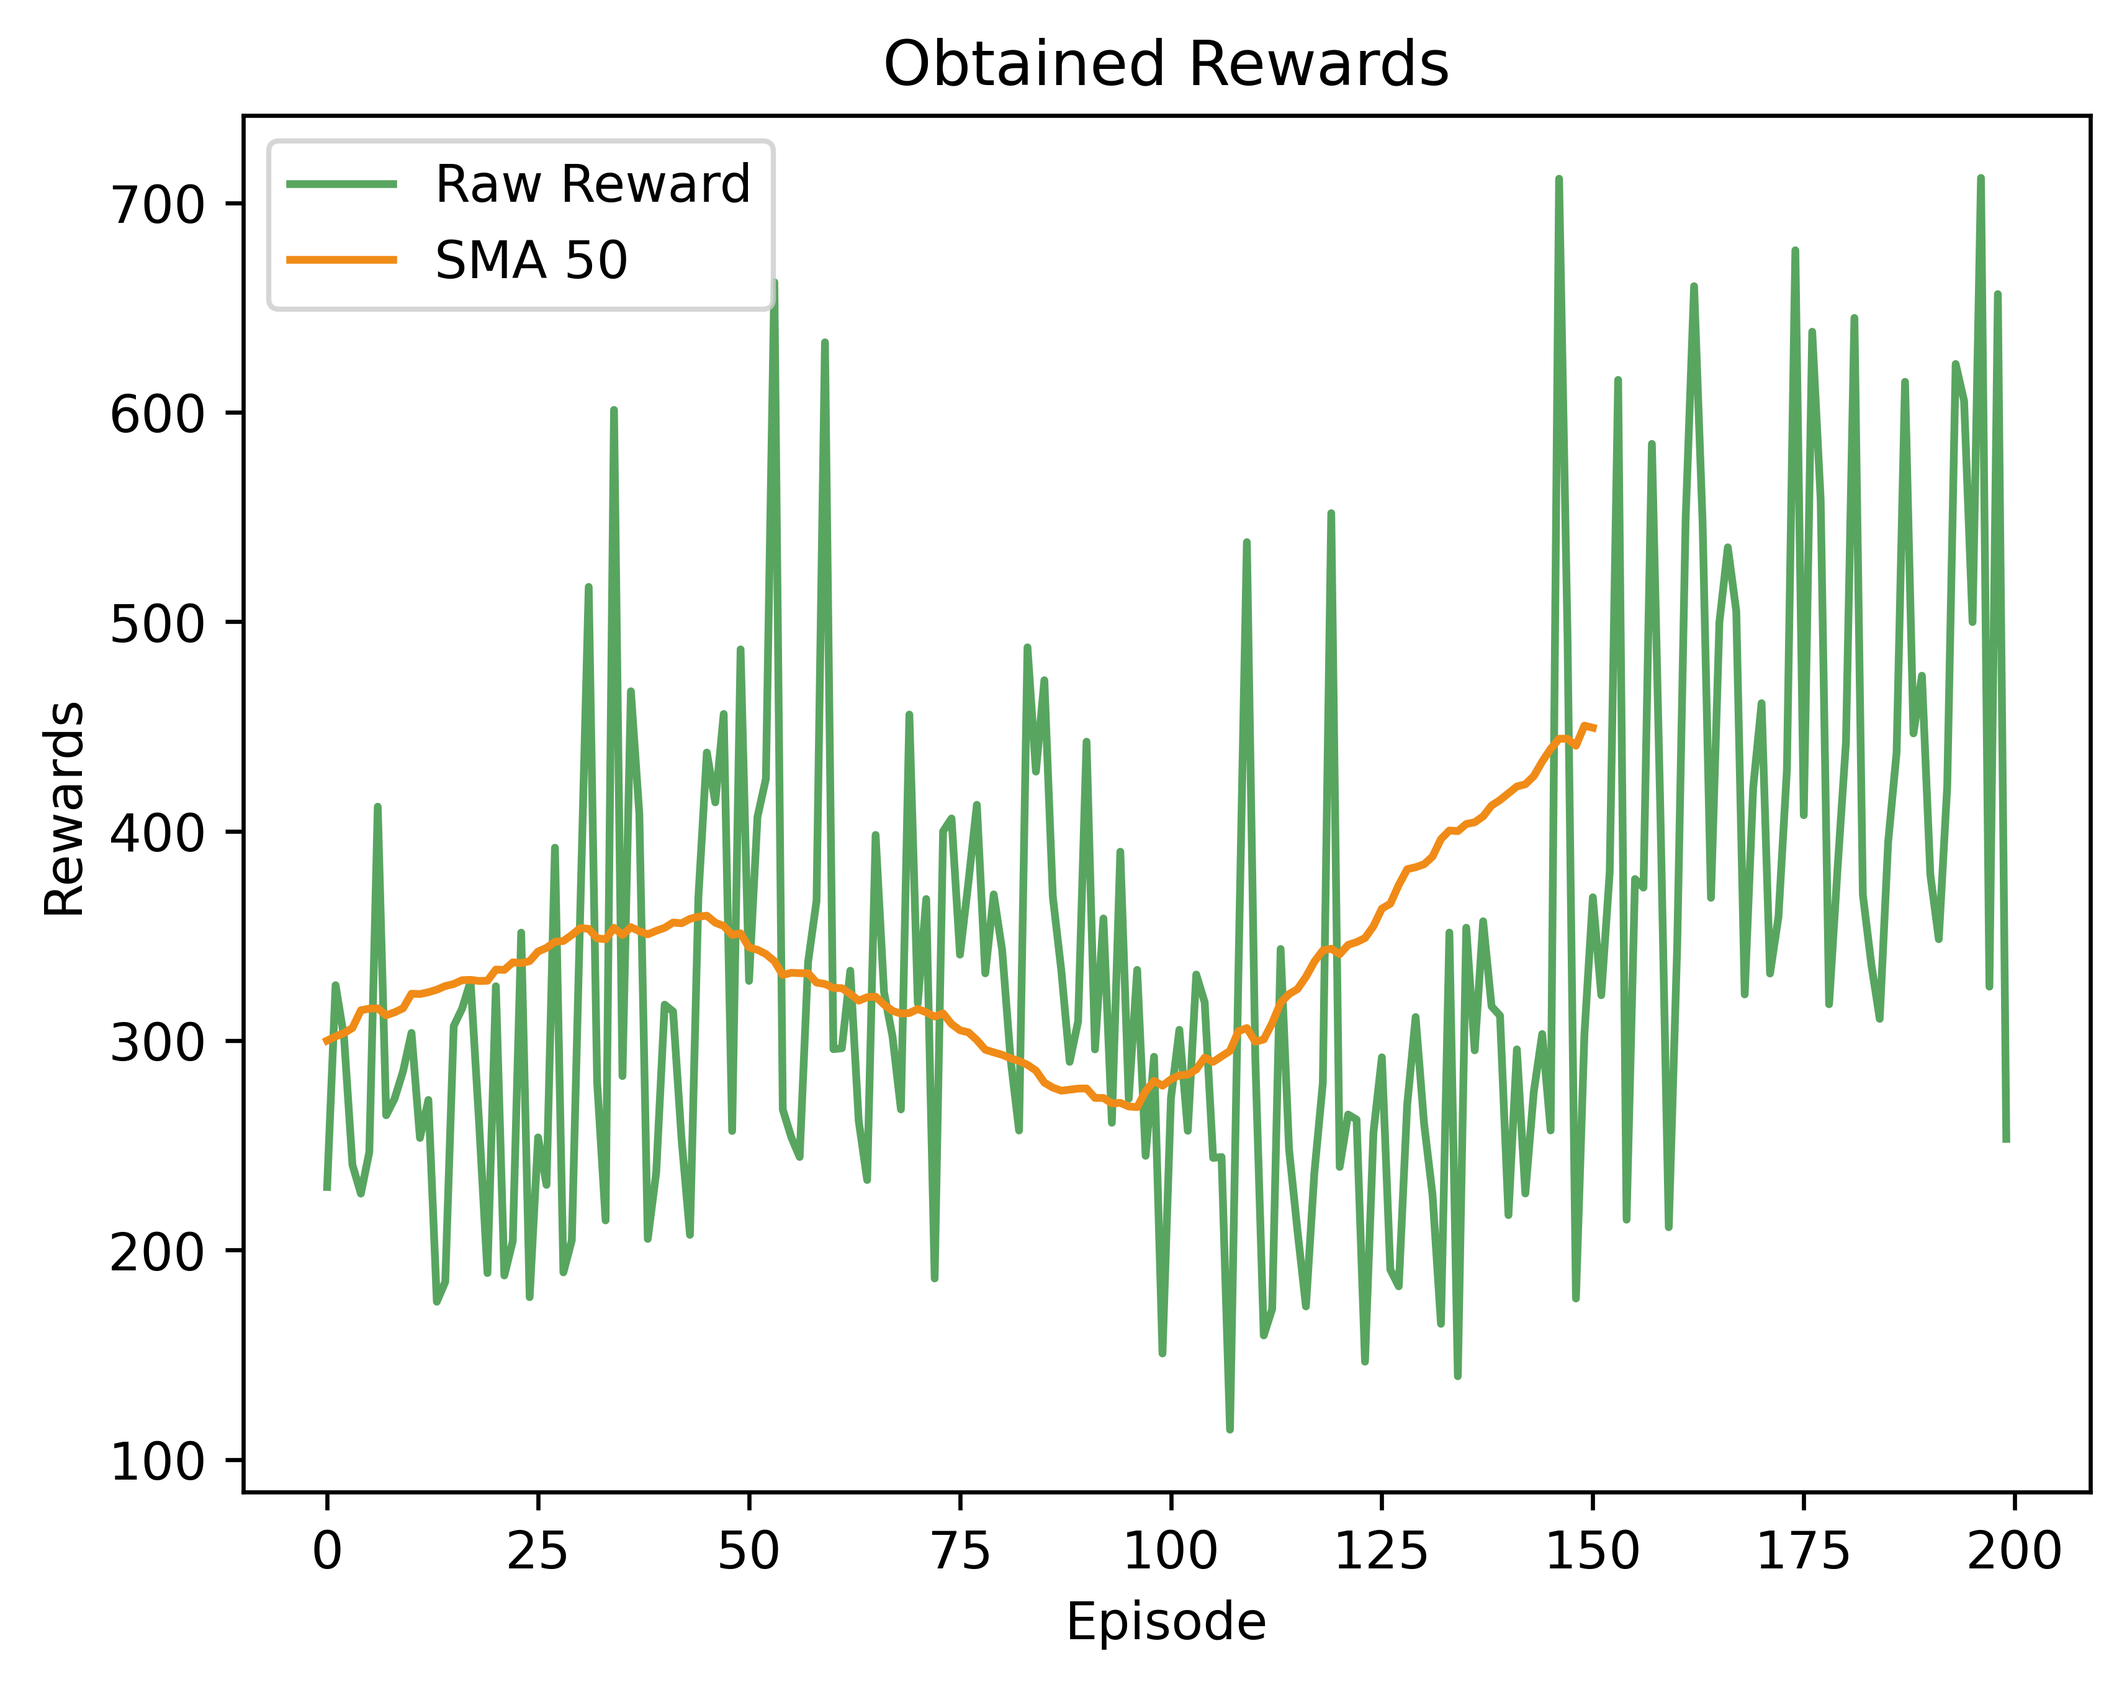
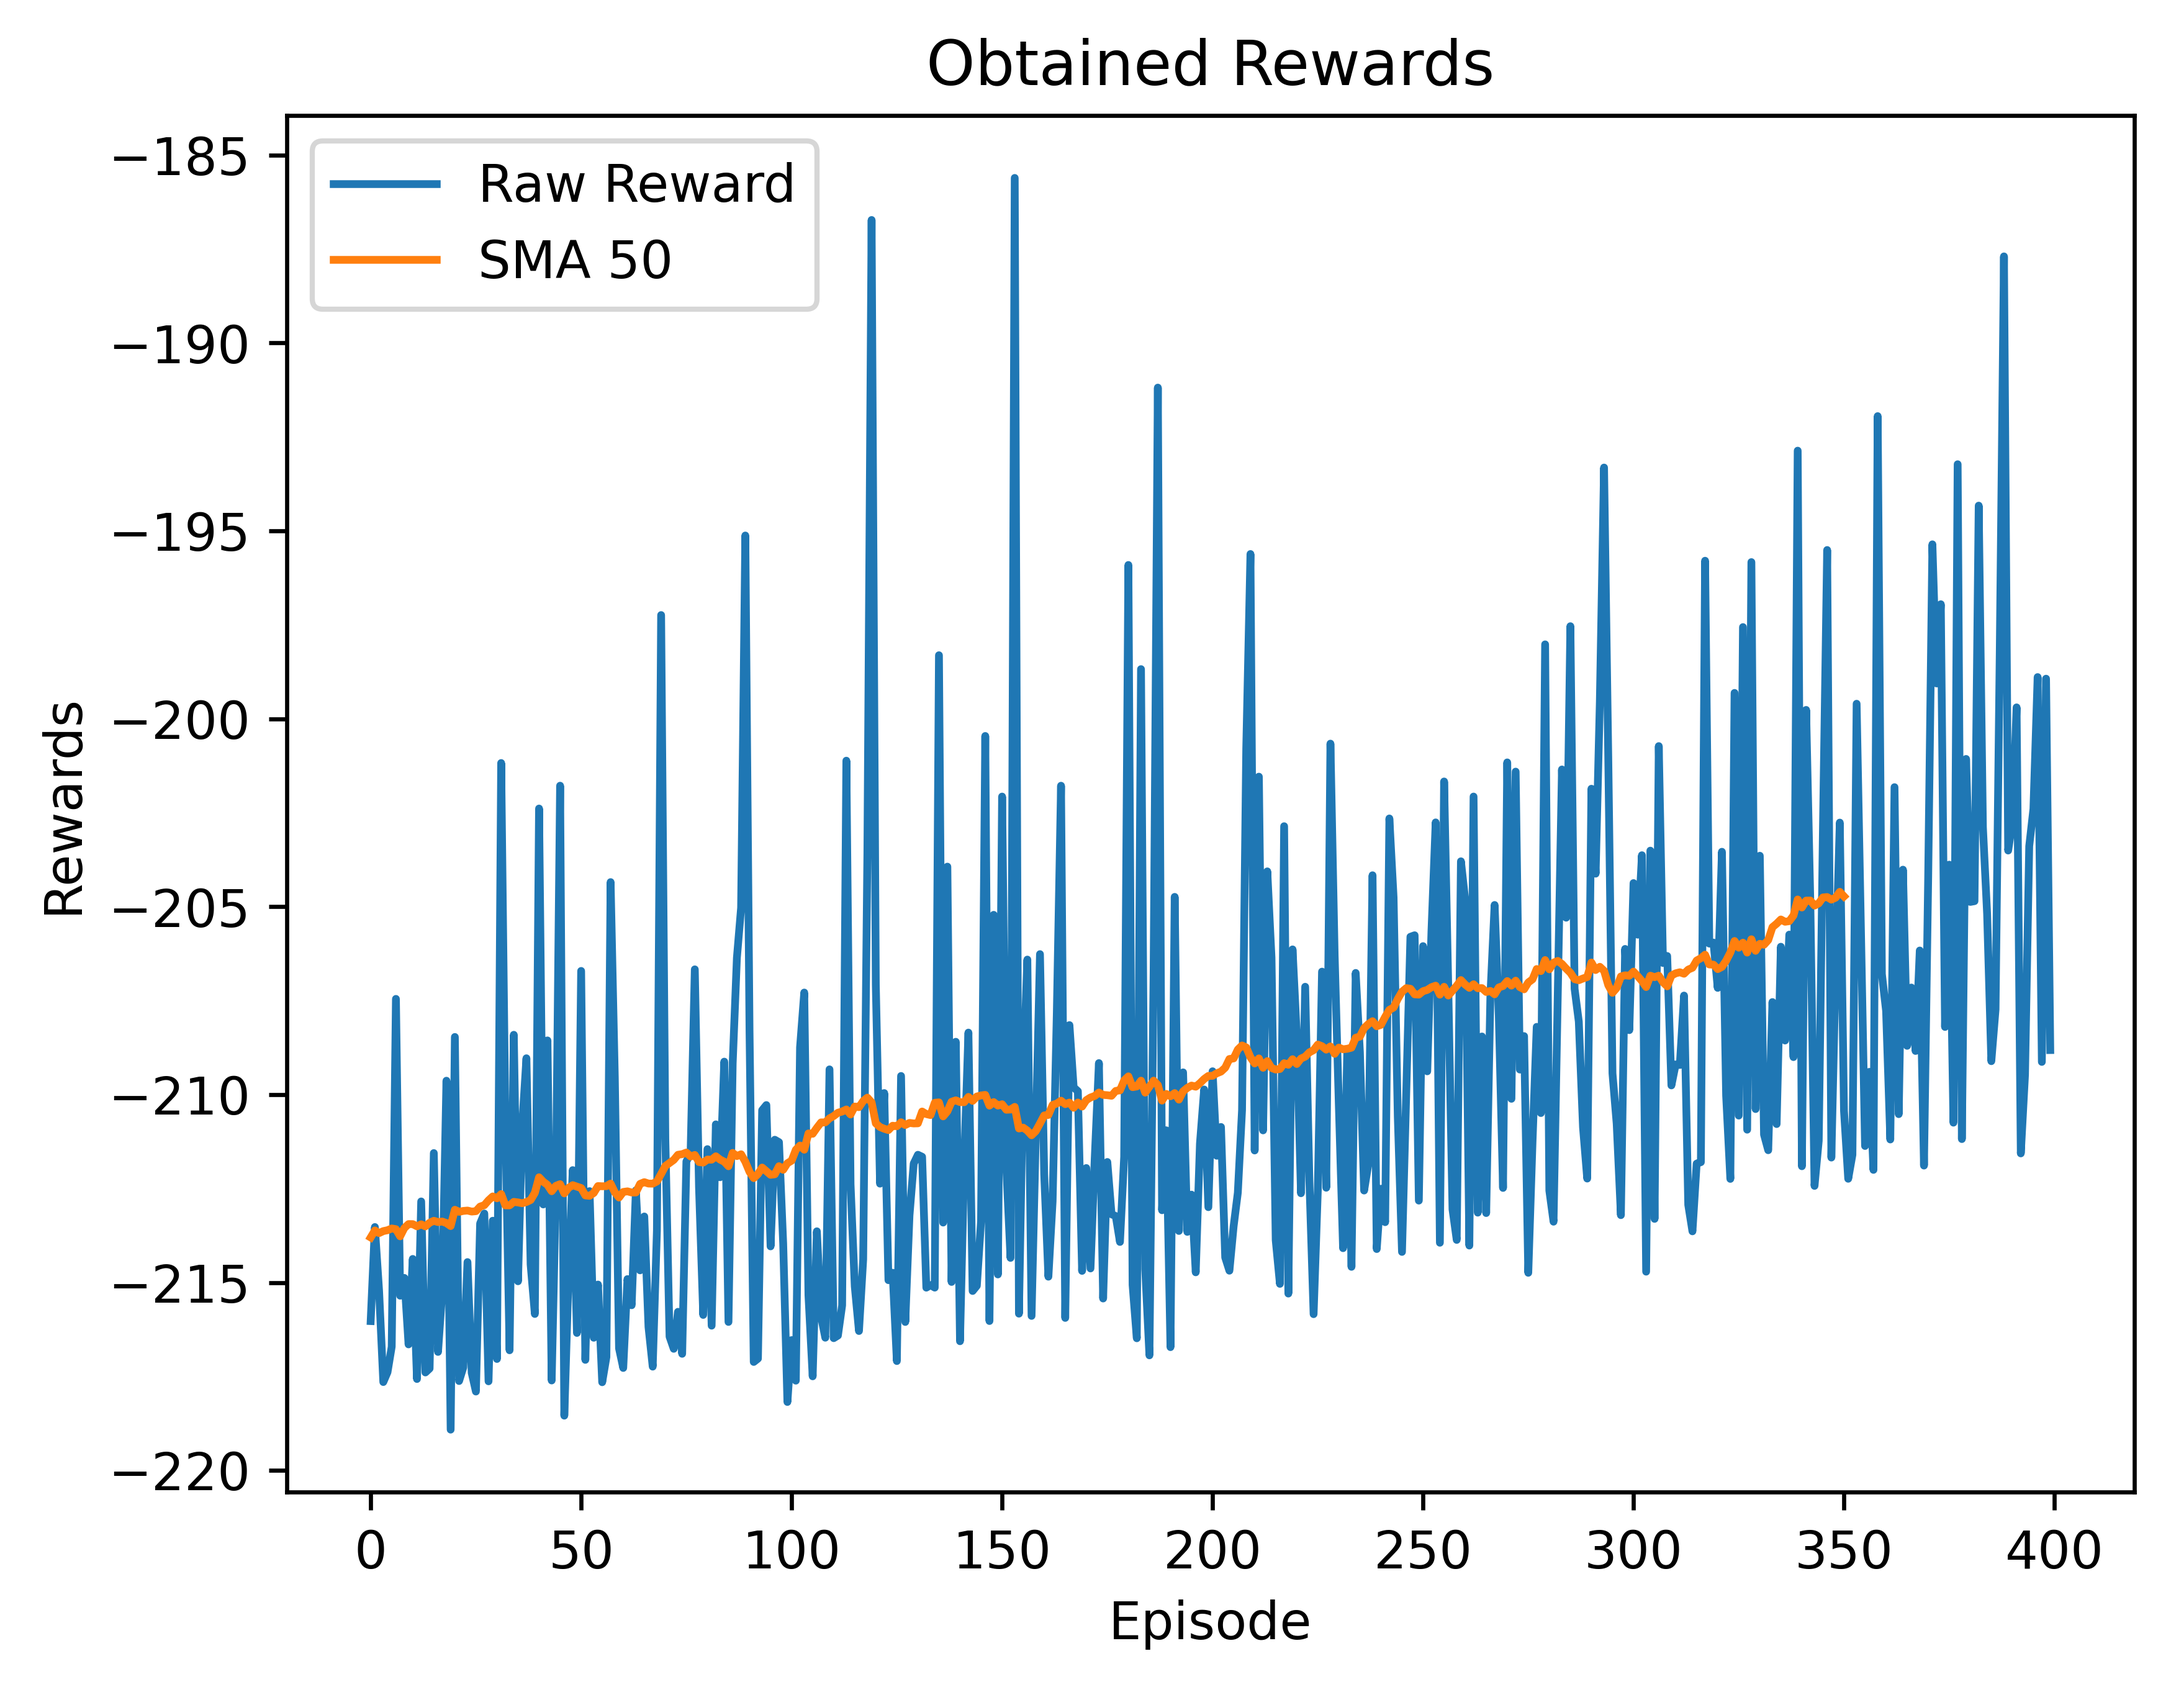
GAH

diff --git a/DQN_MountainCar_PyTorch/main.py b/DQN_MountainCar_PyTorch/main.py
@@ -2,10 +2,10 @@ import random, collections
 import matplotlib.pyplot as plt
 import torch, torch.nn as nn, torch.optim as optim
 import gymnasium as gym
-
 import numpy as np
+import torch.nn.functional as F
 
-# To stop Numpy having a stroke
+# Compatibility
 if not hasattr(np, "bool8"):
     np.bool8 = np.bool_
 
@@ -13,23 +13,23 @@ if not hasattr(np, "bool8"):
 TRAIN = True
 RENDER = not TRAIN
 
-NUM_EPISODES = 200
+NUM_EPISODES = 800
 MAX_STEPS = 200
 BATCH_SIZE = 64
 DISCOUNT = 0.99
-LEARNING_RATE = 75e-4
-BUFFER_SIZE = 50000
+LEARNING_RATE = 1e-4
+BUFFER_SIZE = 40000
 MIN_REPLAY_SIZE = 1000
 EPS_START = 0.999
 EPS_END = 0.01
-EPS_DECAY = 0.997
+EPS_DECAY = 0.998
 TAU = 0.005
 
 # ~~~~ Environment ~~~~
 DEVICE = torch.device("cuda" if torch.cuda.is_available() else "cpu")
 env = gym.make("MountainCar-v0", render_mode="human" if RENDER else None)
 
-# Seed everything
+# Seed
 SEED = 21
 random.seed(SEED)
 torch.manual_seed(SEED)
@@ -37,7 +37,6 @@ env.reset(seed=SEED)
 env.action_space.seed(SEED)
 if torch.cuda.is_available():
     torch.cuda.manual_seed(SEED)
-
 
 
 # ~~~~ Replay buffer ~~~~
@@ -51,17 +50,18 @@ class ReplayBuffer:
     def sample(self, batch_size):
         indices = np.random.choice(len(self.buffer), batch_size, replace=False)
         batch = [self.buffer[i] for i in indices]
-        s, a, r, s_, d = zip(*batch)
+        state, action , reward, next_state, done = zip(*batch)
         return (
-            torch.tensor(np.stack(s), dtype=torch.float32, device=DEVICE),
-            torch.tensor(a, dtype=torch.long, device=DEVICE),
-            torch.tensor(r, dtype=torch.float32, device=DEVICE),
-            torch.tensor(np.stack(s_), dtype=torch.float32, device=DEVICE),
-            torch.tensor(d, dtype=torch.float32, device=DEVICE),
+            torch.tensor(np.stack(state), dtype=torch.float32, device=DEVICE),
+            torch.tensor(action, dtype=torch.long, device=DEVICE),
+            torch.tensor(reward, dtype=torch.float32, device=DEVICE),
+            torch.tensor(np.stack(next_state), dtype=torch.float32, device=DEVICE),
+            torch.tensor(done, dtype=torch.float32, device=DEVICE),
         )
 
     def __len__(self):
         return len(self.buffer)
+
 
 # ~~~~ Normalise Function ~~~~
 def normalize_state(state):
@@ -69,15 +69,15 @@ def normalize_state(state):
     high = env.observation_space.high
     return (state - low) / (high - low)
 
-# ~~~~ Custom Rewards ~~~~
-def custom_reward(state, next_state, env_reward):
-    position, velocity = next_state
 
-    # Base shaping
+# ~~~~ Custom reward ~~~~
+def custom_reward(next_state, env_reward=0.0):
+    # next_state is a numpy array [position, velocity]
+    position, velocity = next_state
+    # base shaping (same idea as yours)
     modified_reward = 0.2 * (np.cos(np.deg2rad(position * 360)) + 2.0 * abs(velocity))
     modified_reward -= 0.9
-    
-    # Progress bonuses
+
     if position > 0.48:
         modified_reward += 10.0
     elif position > 0.40:
@@ -85,34 +85,52 @@ def custom_reward(state, next_state, env_reward):
     elif position > 0.30:
         modified_reward += 1.0
 
+    # clip to avoid huge spikes (you can tune this)
     return float(np.clip(modified_reward, -50.0, 50.0))
 
-def customStep(action):
-    raw_next_state, env_reward, done, trunc, info = env.step(action)
-    return normalize_state(raw_next_state), custom_reward(raw_next_state), done, trunc, info
 
-def customReset(seed=None):
+# ~~~~ Custom Step and reset ~~~~
+def custom_step(action):
+    raw_next_state, env_reward, terminated, truncated, info = env.step(action)
+    mod_reward = custom_reward(raw_next_state, env_reward)
+    norm_next_state = normalize_state(raw_next_state)
+    return norm_next_state, mod_reward, terminated, truncated, info
+
+
+def custom_reset(seed=None):
     if seed is not None:
         raw_state, info = env.reset(seed=seed)
     else:
         raw_state, info = env.reset()
     return normalize_state(raw_state), info
 
-    
+
 # ~~~~ Q-network ~~~~
 class QNet(nn.Module):
-    def __init__(self, obs_dim, n_actions):
+    # def __init__(self, obs_dim, n_actions):
+    #     super().__init__()
+    #     self.net = nn.Sequential(
+    #         nn.Linear(obs_dim, 24),
+    #         nn.ReLU(),
+    #         nn.Linear(24, 16),
+    #         nn.ReLU(),
+    #         nn.Linear(16, n_actions),
+    #     )
+
+    # def forward(self, x):
+    #     return self.net(x)
+    
+    
+    def __init__(self, state_dim, action_dim):
         super().__init__()
-        self.net = nn.Sequential(
-            nn.Linear(obs_dim, 24),
-            nn.ReLU(),
-            nn.Linear(24, 16),
-            nn.ReLU(),
-            nn.Linear(16, n_actions),
-        )
+        self.fc1 = nn.Linear(state_dim, 25)
+        self.fc2 = nn.Linear(25, 20)
+        self.fc3 = nn.Linear(20, action_dim)
 
     def forward(self, x):
-        return self.net(x)
+        x = F.relu(self.fc1(x))
+        x = F.relu(self.fc2(x))
+        return self.fc3(x)
 
 
 # ~~~~ Agent ~~~~
@@ -130,7 +148,6 @@ class DQNAgent:
         self.n_actions = n_actions
         self.steps = 0
 
-    # Soft updating instead of hard updating for smoother transitions
     def soft_update(self):
         for t, s in zip(self.target.parameters(), self.online.parameters()):
             t.data.copy_(TAU * s.data + (1 - TAU) * t.data)
@@ -144,15 +161,18 @@ class DQNAgent:
 
     def learn(self, batch_size):
         states, actions, rewards, next_states, dones = self.replay.sample(batch_size)
-        q_values = self.online(states).gather(1, actions.unsqueeze(1))
+        actions_idx = actions.unsqueeze(1)          
+        rewards = rewards.unsqueeze(1)              
+        dones = dones.unsqueeze(1)                  
 
-        # Double DQN
+        q_values = self.online(states).gather(1, actions_idx) 
+
+        # Double DQN target
         with torch.no_grad():
-            next_actions = self.online(next_states).argmax(dim=1, keepdim=True)
-            next_q = self.target(next_states).gather(1, next_actions)
-            target_q = rewards + (1.0 - dones) * DISCOUNT * next_q
+            next_actions = self.online(next_states).argmax(dim=1, keepdim=True) 
+            next_q = self.target(next_states).gather(1, next_actions)           
+            target_q = rewards + (1.0 - dones) * DISCOUNT * next_q              
 
-        # Huber loss
         loss = nn.SmoothL1Loss()(q_values, target_q)
 
         self.optimizer.zero_grad()
@@ -163,28 +183,25 @@ class DQNAgent:
         self.steps += 1
         self.soft_update()
         return loss.item()
-    
+
+
 agent = DQNAgent(env)
 
+
 # ~~ Pre-fill replay buffer ~~
-state, _ = customReset(seed=SEED)
-state = normalize_state(state)
+state, _ = custom_reset(seed=SEED)
 for _ in range(MIN_REPLAY_SIZE):
     action = env.action_space.sample()
-    next_state, env_reward, terminated, truncated, _ = customStep(action)
-    next_state = normalize_state(next_state)
+    next_state, reward, terminated, truncated, _ = custom_step(action)
     done = terminated or truncated
-    reward = custom_reward(state, next_state, env_reward)
     agent.replay.push(state, action, reward, next_state, done)
-    state = next_state if not done else normalize_state(customReset()[0])
-
-# Scout out the env
-print("Pre-filled replay:", len(agent.replay))
-
+    if done:
+        state, _ = custom_reset()   # start new episode in prefill
+    else:
+        state = next_state
 
 # ~~~~ Plots ~~~~
 def plot_training(rewards, losses, window=50, max_reward=1000):
-    # Rewards plot
     rewards = np.array(rewards)
     rewards_history = np.clip(rewards, None, max_reward)
 
@@ -196,19 +213,18 @@ def plot_training(rewards, losses, window=50, max_reward=1000):
 
     plt.figure()
     plt.title("Obtained Rewards")
-    plt.plot(rewards_history, label="Raw Reward", color="#58A560")
+    plt.plot(rewards_history, label="Raw Reward")
     if sma is not None:
-        plt.plot(sma, label=f"SMA {window}", color="#F08B17")
+        plt.plot(sma, label=f"SMA {window}")
     plt.xlabel("Episode")
     plt.ylabel("Rewards")
     plt.legend()
     plt.savefig("./reward_plot.png", dpi=600, bbox_inches="tight")
     plt.show()
 
-    # Loss plot
     plt.figure()
     plt.title("Network Loss")
-    plt.plot(losses, label="Loss", color="#9132BD")
+    plt.plot(losses, label="Loss")
     plt.xlabel("Training Step")
     plt.ylabel("Loss")
     plt.legend()
@@ -223,19 +239,15 @@ def train():
     loss_history = []
 
     for episode in range(1, NUM_EPISODES + 1):
-        state, _ = customReset()
-        state = normalize_state(state)
+        state, _ = custom_reset()
         ep_reward = 0.0
         ep_losses = []
         ep_steps = 0
 
         for step in range(MAX_STEPS):
             action = agent.act(state, epsilon)
-            next_state, env_reward, terminated, truncated, _ = customStep(action)
-            next_state = normalize_state(next_state)
-
+            next_state, reward, terminated, truncated, _ = custom_step(action)
             done = terminated or truncated
-            reward = custom_reward(state, next_state, env_reward)
 
             agent.replay.push(state, action, reward, next_state, done)
             state = next_state
@@ -253,15 +265,17 @@ def train():
         rewards_history.append(ep_reward)
         epsilon = max(EPS_END, epsilon * EPS_DECAY)
 
-        if episode % 10 == 0:
+        last_loss = loss_history[-1] if loss_history else 0.0
+        if ep_steps < 200 or episode % 10 == 0:
+        # if ep_steps < 200 or episode % 100 == 0:
             print(
                 f"Episode {episode:4d} | "
                 f"Reward {ep_reward:7.2f} | "
                 f"Steps {ep_steps:3d} | "
                 f"Epsilon {epsilon:.3f} | "
-                f"Loss {loss_history:.3d}"
+                f"LastLoss {last_loss:.4f}"
             )
-    # Save model
+
     torch.save(agent.online.state_dict(), f"dqn_mountaincar_{NUM_EPISODES}.pth")
     print("Model saved.")
     plot_training(rewards_history, loss_history)
@@ -270,19 +284,14 @@ def train():
 # ~~~~ Testing ~~~~
 def test(max_episodes):
     for episode in range(1, max_episodes + 1):
-        state, _ = customReset(seed=SEED)
-        state = normalize_state(state)
+        state, _ = custom_reset(seed=SEED)
         episode_reward = 0.0
         ep_steps = 0
 
         for _ in range(MAX_STEPS):
             action = agent.act(state, epsilon=0.0)
-            next_state, env_reward, terminated, truncated, _ = customStep(action)
-            next_state = normalize_state(next_state)
-
+            next_state, reward, terminated, truncated, _ = custom_step(action)
             done = terminated or truncated
-
-            reward = custom_reward(state, next_state, env_reward)
 
             state = next_state
             episode_reward += reward
@@ -302,10 +311,8 @@ if __name__ == "__main__":
         train()
     else:
         model_path = f"dqn_mountaincar_{NUM_EPISODES}.pth"
-
         agent.online.load_state_dict(torch.load(model_path, map_location=DEVICE))
         agent.online.eval()
         agent.target.load_state_dict(agent.online.state_dict())
         print(f"Loaded model from {model_path}")
-
         test(2)
